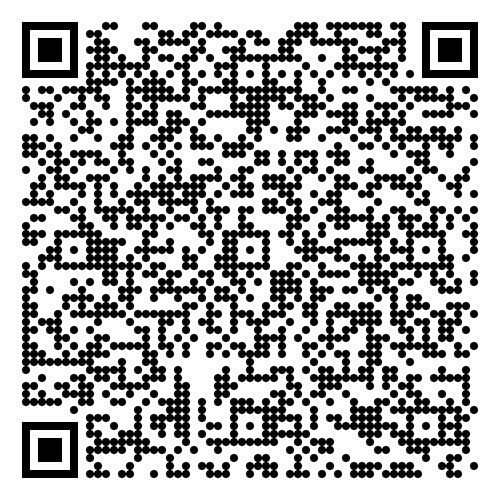
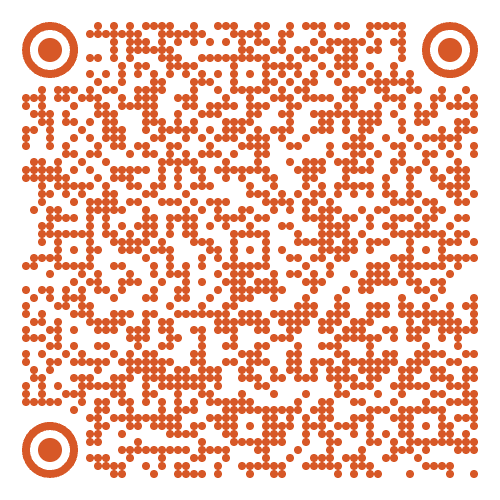
feat: update integration images and enhance ActionButton functionality
- Removed outdated integration images and replaced them with new step images for the Circles integration process.
- Refactored ActionButton component to streamline tooltip handling and improve user guidance for chain switching.
- Updated integration descriptions and titles for better clarity and consistency in user experience.

diff --git a/src/data/integrations.ts b/src/data/integrations.ts
@@ -17,40 +17,40 @@ const integrations: Record<string, Integration> = {
         id: 'start',
         title: 'Start',
         description: 'Sign up for the [Gnosis App](https://app.gnosis.io/) on your desktop, or preferably your mobile browser.',
-        image: '/images/integrations/circles-start.png',
+        image: '/images/integrations/circles-step1.png',
       },
       {
         id: 'createProfile',
-        title: 'Create a profile',
+        title: 'Create A Profile',
         description: 'Log in and create a profile. Follow the simple steps within the Gnosis App to create your wallet and secure it with a passkey stored in your device\'s password manager.',
-        image: '/images/integrations/circles-create-profile.png',
+        image: '/images/integrations/circles-step2.png',
       },
       {
         id: 'activateAccount',
-        title: 'Activate your account',
-        description: 'Share your QR code with an existing user to activate your account. Post your link on the [Circles Telegram community](https://t.me/about_circles) ↗, and ask to get invited!',
-        disclaimer: 'IMPORTANT: You need to be invited into Circles to be able to join the group.',
-        image: '/images/integrations/circles-activate-account.png',
+        title: 'Activate Your Circles Account',
+        description: 'Go the \'Circles\' tab → \'Find an invite\' and share your QR code with an existing user to activate your account. Post your link on the [Circles Telegram community](https://t.me/about_circles) ↗, and ask to get invited!',
+        disclaimer: '(!) Important: You need to be invited into Circles to be able to join our group.',
+        image: '/images/integrations/circles-step3.png',
       },
       {
         id: 'onceActivated',
-        title: 'Once activated',
+        title: 'Post Activation',
         description: 'Once invited to Circles, copy your wallet address by clicking on the icon on the left of your profile picture.',
-        image: '/images/integrations/circles-once-activated.png',
+        image: '/images/integrations/circles-step4.png',
       },
       {
         id: 'copyAddress',
-        title: 'Copy your address',
-        description: 'Click on the ‘copy’ icon to copy your wallet address. Now go back to the Proof Of Humanity page to paste your address and finish your Circles connection (Step 2 below).',
-        image: '/images/integrations/circles-copy-address.png',
+        title: 'Copy Your Address',
+        description: 'Click on the \'copy\' icon to copy your wallet address. Now go back to the Proof Of Humanity page to paste your address and finish your Circles connection (Step 2 below).',
+        image: '/images/integrations/circles-step5.png',
       }
     ],
     secondInfoSlide: [
       {
         id: 'mintGroupTokens',
         title: 'Minting our group $CRC tokens',
-        description: 'Once you join the Gnosis App, you get 24 CRC (individual tokens) per day — one every hour. To mint our group\'s own $CRC tokens, use your phone to scan the QR code above, and swap your individual $CRCs for our group tokens.\n\nTo do this via the Gnosis app: visit your wallet balance, and \'Send\' the desired amount of individual $CRC you want to swap, to our group. You\'ll receive your group $CRC instantly.',
-        image: '/images/integrations/new-gnosis-app-qr.png',
+        description: 'Once you join the Gnosis App, you get 24 CRC (individual tokens) per day — one every hour. To mint our group\'s own $CRC tokens, use your phone to scan the QR code above, and swap your individual $CRCs for our group tokens.\n\n To do this via the Gnosis app: visit your wallet balance, and \'Send\' the desired amount of individual $CRC you want to swap, to our group. You\'ll receive your group $CRC instantly.',
+        image: '/images/integrations/mint-qr-code.png',
       },
     ],
   },

diff --git a/src/app/[pohid]/[chain]/[request]/ActionBar.tsx b/src/app/[pohid]/[chain]/[request]/ActionBar.tsx
@@ -325,9 +325,10 @@ export default function ActionBar({
                         tooltip={
                           isWithdrawPrepareError
                             ? "Withdraw not possible, please try again"
+                            : userChainId !== chain.id 
+                            ? `Switch your chain above to ${idToChain(chain.id)?.name || 'the correct chain'}`
                             : undefined
                         }
-                        wrongChainTooltip={userChainId !== chain.id ? `Switch your chain above to ${idToChain(chain.id)?.name || 'the correct chain'}` : undefined}
                         className="mb-2"
                       />
                     </div>
@@ -420,8 +421,7 @@ export default function ActionBar({
                onClick={withdraw}
                variant = "secondary"
                label={"Withdraw"}
-               tooltip={isWithdrawPrepareError ? "Withdraw not possible, please try again": undefined}
-               wrongChainTooltip={userChainId !== chain.id ? `Switch your chain above to ${idToChain(chain.id)?.name || 'the correct chain'}` : undefined}
+               tooltip={isWithdrawPrepareError ? "Withdraw not possible, please try again" : userChainId !== chain.id ? `Switch your chain above to ${idToChain(chain.id)?.name || 'the correct chain'}` : undefined}
                className="mb-2"
              />
               ) : !didIVouchFor ? (
@@ -447,8 +447,7 @@ export default function ActionBar({
                 isLoading={isAdvanceLoading}
                 onClick={advanceFire}
                 label={isAdvanceLoading ? "Advancing" : "Advance"}
-                tooltip={isAdvancePrepareError ? "Advance not possible, please try again" : undefined}
-                wrongChainTooltip={userChainId !== chain.id ? `Switch your chain above to ${idToChain(chain.id)?.name || 'the correct chain'}` : undefined}
+                tooltip={isAdvancePrepareError ? "Advance not possible, please try again" : userChainId !== chain.id ? `Switch your chain above to ${idToChain(chain.id)?.name || 'the correct chain'}` : undefined}
                 className="mb-2"
               />
             </div>
@@ -463,8 +462,7 @@ export default function ActionBar({
                 isLoading={isExecuteLoading}
                 onClick={execute}
                 label={isExecuteLoading ? "Executing" : "Execute"}
-                tooltip={isExecutePrepareError ? "Execute not possible, please try again" : undefined}
-                wrongChainTooltip={userChainId !== chain.id ? `Switch your chain above to ${idToChain(chain.id)?.name || 'the correct chain'}` : undefined}
+                tooltip={isExecutePrepareError ? "Execute not possible, please try again" : userChainId !== chain.id ? `Switch your chain above to ${idToChain(chain.id)?.name || 'the correct chain'}` : undefined}
                 className="mb-2"
               />
             </div>

diff --git a/src/app/[pohid]/[chain]/[request]/Funding.tsx b/src/app/[pohid]/[chain]/[request]/Funding.tsx
@@ -83,6 +83,7 @@ const FundButton: React.FC<FundButtonProps> = ({
   }, [inputAmount, balanceData, addedFundInput]);
 
   const exceedsRemaining = inputAmount != null && inputAmount > remainingAmount;
+  
   const isDisabled =
     !isConnected ||
     !addedFundInput ||
@@ -91,11 +92,25 @@ const FundButton: React.FC<FundButtonProps> = ({
     exceedsRemaining ||
     insufficientFunds;
 
+  const getTooltipMessage = () => {
+    if (!isConnected) return "Please connect your wallet";
+    if (userChainId !== chain.id) return `Switch your chain above to ${idToChain(chain.id)?.name || 'the correct chain'}`;
+    if (!addedFundInput) return "Please enter an amount to fund";
+    if (exceedsRemaining) return `Amount exceeds remaining needed (${formatEth(remainingAmount)} ${chain.nativeCurrency.symbol})`;
+    if (insufficientFunds) return `Insufficient balance. You have ${formatEth(balanceData?.value ?? 0n)} ${chain.nativeCurrency.symbol}`;
+    if (isLoading) return "Transaction in progress";
+    return undefined;
+  };
+
   return (
     <>
-      <button className="btn-main mb-2" onClick={() => setIsModalOpen(true)}>
-        Fund
-      </button>
+      <ActionButton
+        onClick={() => setIsModalOpen(true)}
+        label="Fund"
+        className="mb-2"
+        disabled={userChainId !== chain.id}
+        tooltip={userChainId !== chain.id ? `Switch your chain above to ${idToChain(chain.id)?.name || 'the correct chain'}` : undefined}
+      />
       <Modal
         formal
         header="Fund"
@@ -127,9 +142,9 @@ const FundButton: React.FC<FundButtonProps> = ({
           disabled={isDisabled}
           isLoading={isLoading}
           onClick={handleSubmit}
-          className="mt-12"
+          className="mt-6 mx-auto"
           label={loadingMessage || "Fund request"}
-          wrongChainTooltip={userChainId !== chain.id ? `Switch your chain above to ${idToChain(chain.id)?.name || 'the correct chain'}` : undefined}
+          tooltip={getTooltipMessage()}
         />
       </div>
       </Modal>

diff --git a/src/app/[pohid]/[chain]/[request]/Appeal.tsx b/src/app/[pohid]/[chain]/[request]/Appeal.tsx
@@ -9,6 +9,7 @@ import Identicon from "components/Identicon";
 import Modal from "components/Modal";
 import Progress from "components/Progress";
 import TimeAgo from "components/TimeAgo";
+import ActionButton from "components/ActionButton";
 import { SupportedChainId, idToChain } from "config/chains";
 import {
   APIArbitrator,
@@ -26,6 +27,7 @@ import { toast } from "react-toastify";
 import {RequestStatus, getStatusLabel } from "utils/status";
 import { eth2Wei, formatEth } from "utils/misc";
 import { Address } from "viem";
+import { useChainId } from "wagmi";
 
 interface SideFundingProps {
   side: SideEnum;
@@ -50,6 +52,7 @@ const SideFunding: React.FC<SideFundingProps> = ({
   chainId,
   loosingSideHasEnd,
 }) => {
+  const userChainId = useChainId();
   const title = side === SideEnum.claimer ? "Claimer" : "Challenger";
   const shrunkAddress: string =
     requester.substring(0, 6) + " ... " + requester.slice(-4);
@@ -97,22 +100,17 @@ const SideFunding: React.FC<SideFundingProps> = ({
           type="number"
           onChange={(v) => setRequesterInput(eth2Wei(+v.target.value))}
         />
-        <button
-          className={`gradient rounded px-4 text-white ${
-            !contributor || errorRef.current || loosingSideHasEnd
-              ? "cursor-not-allowed opacity-50"
-              : ""
-          }`}
-          disabled={!contributor || errorRef.current || loosingSideHasEnd}
+        <ActionButton
           onClick={async () => {
             prepareFundAppeal({
               args: [arbitrator as Address, BigInt(disputeId), side],
               value: requesterInput,
             });
           }}
-        >
-          Fund
-        </button>
+          label="Fund"
+          disabled={!contributor || errorRef.current || loosingSideHasEnd || userChainId !== chainId}
+          tooltip={userChainId !== chainId ? `Switch your chain above to ${idToChain(chainId)?.name || 'the correct chain'}` : undefined}
+        />
       </div>
       <Progress
         value={valueProgress}

diff --git a/src/hooks/useAutoSwitchToGnosis.ts b/src/hooks/useAutoSwitchToGnosis.ts
@@ -2,27 +2,37 @@ import { useEffect, useRef } from 'react';
 import { useAccount, useChainId, useSwitchChain } from 'wagmi';
 import { gnosis } from 'viem/chains';
 
-const STORAGE_KEY = 'poh-autoswitch-gnosis-prompted';
-
 export function useAutoSwitchToGnosis() {
-  const { isConnected } = useAccount();
+  const { isConnected, address } = useAccount();
   const chainId = useChainId();
   const { switchChain } = useSwitchChain();
-  const hasRun = useRef(false);
+  const hasAttemptedSwitch = useRef(false);
+  const isSwitching = useRef(false);
+  const hasBeenOnGnosis = useRef(false);
 
   useEffect(() => {
-    if (!isConnected) return;
-    const hasPrompted = sessionStorage.getItem(STORAGE_KEY);
-    
-    if (!hasPrompted && !hasRun.current) {
-        if (chainId !== gnosis.id) {
-            hasRun.current = true;
-            sessionStorage.setItem(STORAGE_KEY, 'true');
-            switchChain({ chainId: gnosis.id });
-        } else {
-             // If already connected to Gnosis, mark as handled so we don't switch them back if they manually switch to Eth later
-             sessionStorage.setItem(STORAGE_KEY, 'true');
-        }
+    if (!isConnected || !address || !switchChain) {
+      hasAttemptedSwitch.current = false;
+      hasBeenOnGnosis.current = false;
+      return;
     }
-  }, [isConnected, chainId, switchChain]);
+
+    if (chainId === gnosis.id) {
+      hasBeenOnGnosis.current = true;
+    }
+
+    if (chainId !== gnosis.id && !hasAttemptedSwitch.current && !hasBeenOnGnosis.current && !isSwitching.current) {
+        hasAttemptedSwitch.current = true;
+        isSwitching.current = true;
+        
+        switchChain({ chainId: gnosis.id }, {
+            onSuccess: () => {
+                isSwitching.current = false;
+            },
+            onError: () => {
+                isSwitching.current = false;
+            }
+        });
+    }
+  }, [isConnected, address, chainId, switchChain]);
 }

diff --git a/src/components/ActionButton.tsx b/src/components/ActionButton.tsx
@@ -13,7 +13,6 @@ export interface ActionButtonProps {
   className?: string;
   variant?: ActionButtonVariant;
   tooltip?: string;
-  wrongChainTooltip?: string;
 }
 
 const buttonStyles = {
@@ -35,7 +34,6 @@ export default function ActionButton({
   className = '',
   variant = 'primary',
   tooltip,
-  wrongChainTooltip,
 }: ActionButtonProps) {
 
   const mergedButtonClasses = twMerge(
@@ -64,22 +62,19 @@ export default function ActionButton({
     <button
       onClick={onClick}
       aria-label={ariaLabel || label}
-      className={tooltip || wrongChainTooltip ? mergedButtonClasses : twMerge(mergedButtonClasses, className)}
+      className={tooltip ? mergedButtonClasses : twMerge(mergedButtonClasses, className)}
       disabled={disabled || isLoading}
     >
       {buttonContent}
     </button>
   );
 
-  // Show wrong chain tooltip if provided and button is disabled
-  const displayTooltip = wrongChainTooltip && disabled ? wrongChainTooltip : tooltip;
-
-  if (displayTooltip) {
+  if (tooltip) {
     return (
       <div className={mergedWrapperClasses}>
         {button}
         <span className="opacity-0 group-hover:opacity-100 absolute bottom-full left-1/2 z-10 mb-2 w-max -translate-x-1/2 rounded-md bg-neutral-700 px-3 py-2 text-center text-sm text-white transition-opacity pointer-events-none">
-          {displayTooltip}
+          {tooltip}
           <span className="absolute top-full left-1/2 h-0 w-0 -translate-x-1/2 border-x-[5px] border-x-transparent border-t-[5px] border-t-neutral-700" />
         </span>
       </div>

diff --git a/src/app/[pohid]/[chain]/[request]/Vouch.tsx b/src/app/[pohid]/[chain]/[request]/Vouch.tsx
@@ -3,12 +3,12 @@ import { useMemo, useState } from "react";
 import Modal from "components/Modal";
 import usePoHWrite from "contracts/hooks/usePoHWrite";
 import { Address, Hash } from "viem";
-import { useSignTypedData } from "wagmi";
+import { useSignTypedData, useChainId } from "wagmi";
 import { useEffectOnce } from "@legendapp/state/react";
 import axios from "axios";
 import { getContractInfo } from "contracts";
 import { toast } from "react-toastify";
-import { SupportedChain } from "config/chains";
+import { SupportedChain, idToChain } from "config/chains";
 import ActionButton from "components/ActionButton";
 
 interface VouchButtonProps {
@@ -29,6 +29,7 @@ export default function Vouch({
   address,
 }: VouchButtonProps) {
   const router = useRouter();
+  const userChainId = useChainId();
   const [isOpen, setIsOpen] = useState(false);
   const [prepare, addVouch , status] = usePoHWrite(
     "addVouch",
@@ -121,9 +122,13 @@ export default function Vouch({
     me.pohId &&
     isRegistrationValid && (
       <>
-        <button className="btn-main mb-2" onClick={() => setIsOpen(true)}>
-          Vouch
-        </button>
+        <ActionButton
+          onClick={() => setIsOpen(true)}
+          label="Vouch"
+          className="mb-2"
+          disabled={userChainId !== chain.id}
+          tooltip={userChainId !== chain.id ? `Switch your chain above to ${idToChain(chain.id)?.name || 'the correct chain'}` : undefined}
+        />
         <Modal
           formal
           header="Vouch"

diff --git a/src/app/[pohid]/[chain]/[request]/Challenge.tsx b/src/app/[pohid]/[chain]/[request]/Challenge.tsx
@@ -213,7 +213,14 @@ export default function Challenge({
     <Modal
       formal
       header="Challenge"
-      trigger={<button className="btn-main">Challenge</button>}
+      trigger={
+        <ActionButton
+          onClick={() => {}}
+          label="Challenge"
+          disabled={userChainId !== chain.id}
+          tooltip={userChainId !== chain.id ? `Switch your chain above to ${idToChain(chain.id)?.name || 'the correct chain'}` : undefined}
+        />
+      }
     >
       <div className="flex flex-col flex-wrap items-center p-4">
         <ALink className="flex" href={ipfs(arbitrationInfo.policy)}>
@@ -266,7 +273,7 @@ export default function Challenge({
               onClick: submit,
               isLoading,
               label: loadingMessage || "Challenge request",
-              wrongChainTooltip: userChainId !== chain.id ? `Switch your chain above to ${idToChain(chain.id)?.name || 'the correct chain'}` : undefined,
+              tooltip: userChainId !== chain.id ? `Switch your chain above to ${idToChain(chain.id)?.name || 'the correct chain'}` : undefined,
             }}
           />
         </AuthGuard>

diff --git a/src/components/Integrations/Circles/CirclesStepCard.tsx b/src/components/Integrations/Circles/CirclesStepCard.tsx
@@ -34,7 +34,7 @@ const CirclesStepCard: React.FC<ProcessStepCardProps> = ({
         />
         <p className="text-secondaryText text-base mb-4">
           If you're on desktop, 
-            <a href="https://app.metri.xyz/transfer/0x9a450CF5AAFa348A3d4857CbDD49e23819F08A0e/crc?data=0xf3f5858942140fd2894eeb8b74cd0ed72d24fc6675d352a2884b1be2f32256fe" className="text-orange font-medium hover:text-orange/80 hover:cursor-pointer" target="_blank" rel="noopener noreferrer"> click here </a>
+            <a href="https://app.gnosis.io/transfer/0x9a450CF5AAFa348A3d4857CbDD49e23819F08A0e/crc?data=0xf3f5858942140fd2894eeb8b74cd0ed72d24fc6675d352a2884b1be2f32256fe" className="text-orange font-medium hover:text-orange/80 hover:cursor-pointer" target="_blank" rel="noopener noreferrer"> click here </a>
             to mint our group $CRC
         </p>
       </div>

diff --git a/src/app/[pohid]/[chain]/[request]/RemoveVouch.tsx b/src/app/[pohid]/[chain]/[request]/RemoveVouch.tsx
@@ -65,8 +65,7 @@ export default function RemoveVouch({
           className="mb-2"
           isLoading={status.write === "pending"}
           disabled={status.write === "pending" || disabled || userChainId !== chain.id}
-          tooltip={tooltip}
-          wrongChainTooltip={userChainId !== chain.id ? `Switch your chain above to ${idToChain(chain.id)?.name || 'the correct chain'}` : undefined}
+          tooltip={tooltip || (userChainId !== chain.id ? `Switch your chain above to ${idToChain(chain.id)?.name || 'the correct chain'}` : undefined)}
         />
       </div>
     )

diff --git a/src/components/Integrations/IntegrationCard.tsx b/src/components/Integrations/IntegrationCard.tsx
@@ -40,7 +40,7 @@ export default function IntegrationCard({ integration }: IntegrationCardProps) {
         </p>
 
         <button 
-          className="text-xs btn-main gradient px-6 py-3 dark:hover:bg-opacity-80 w-full sm:w-auto"
+          className="text-sm btn-main gradient px-3 py-2 dark:hover:bg-opacity-80 w-full sm:w-auto"
           aria-label={`Start connecting your ${integration.name}`}
           onClick={handleNavigation}
         >
